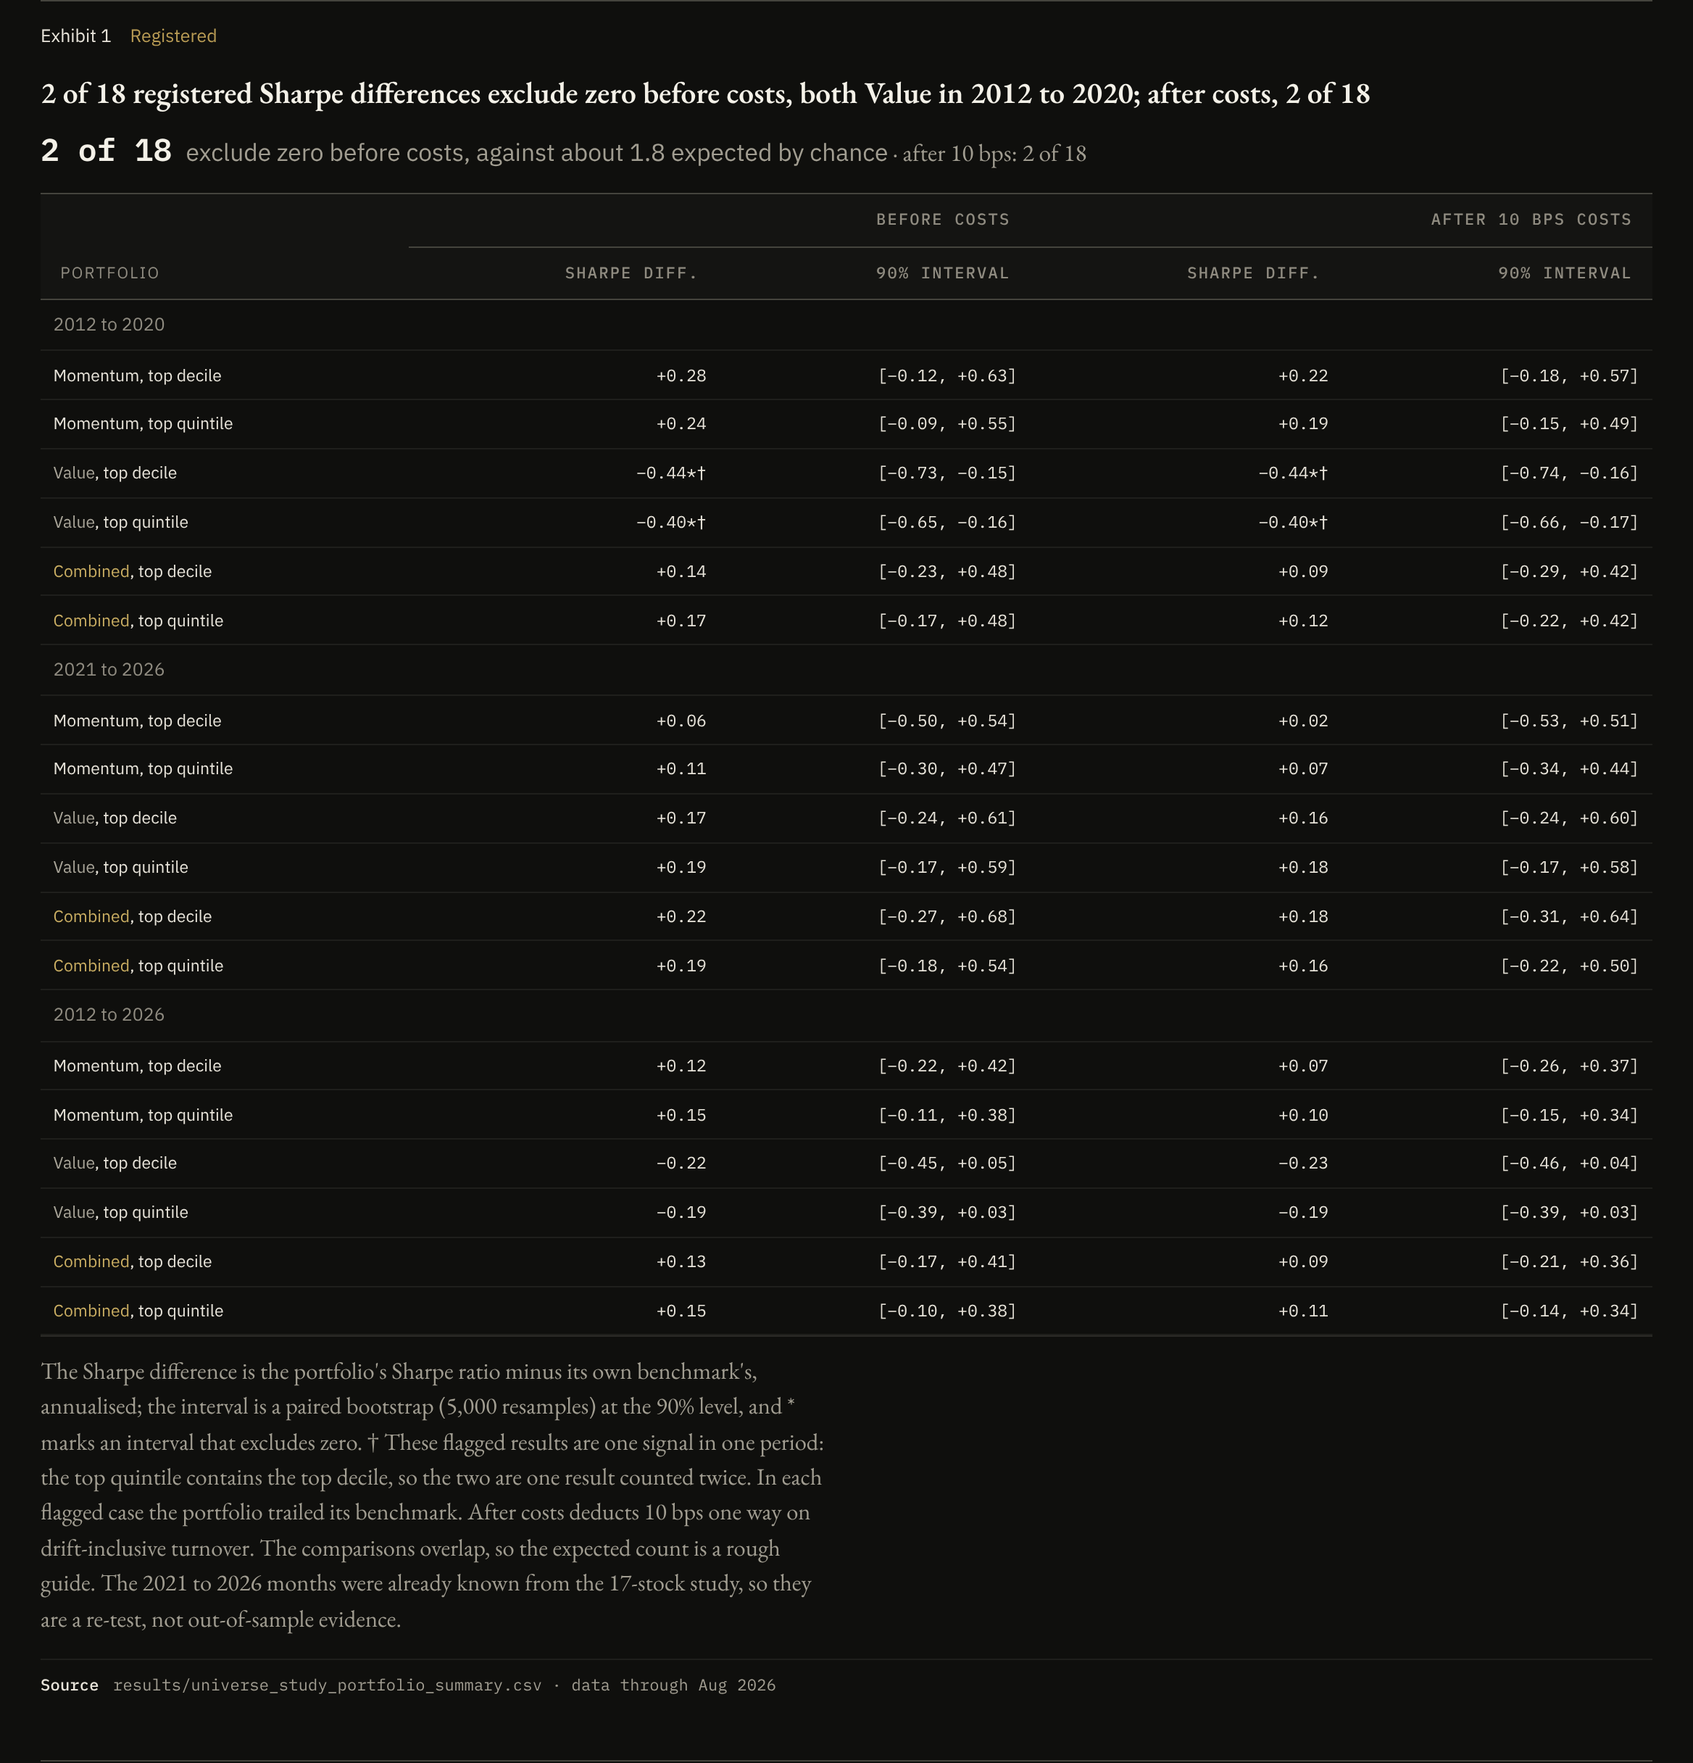
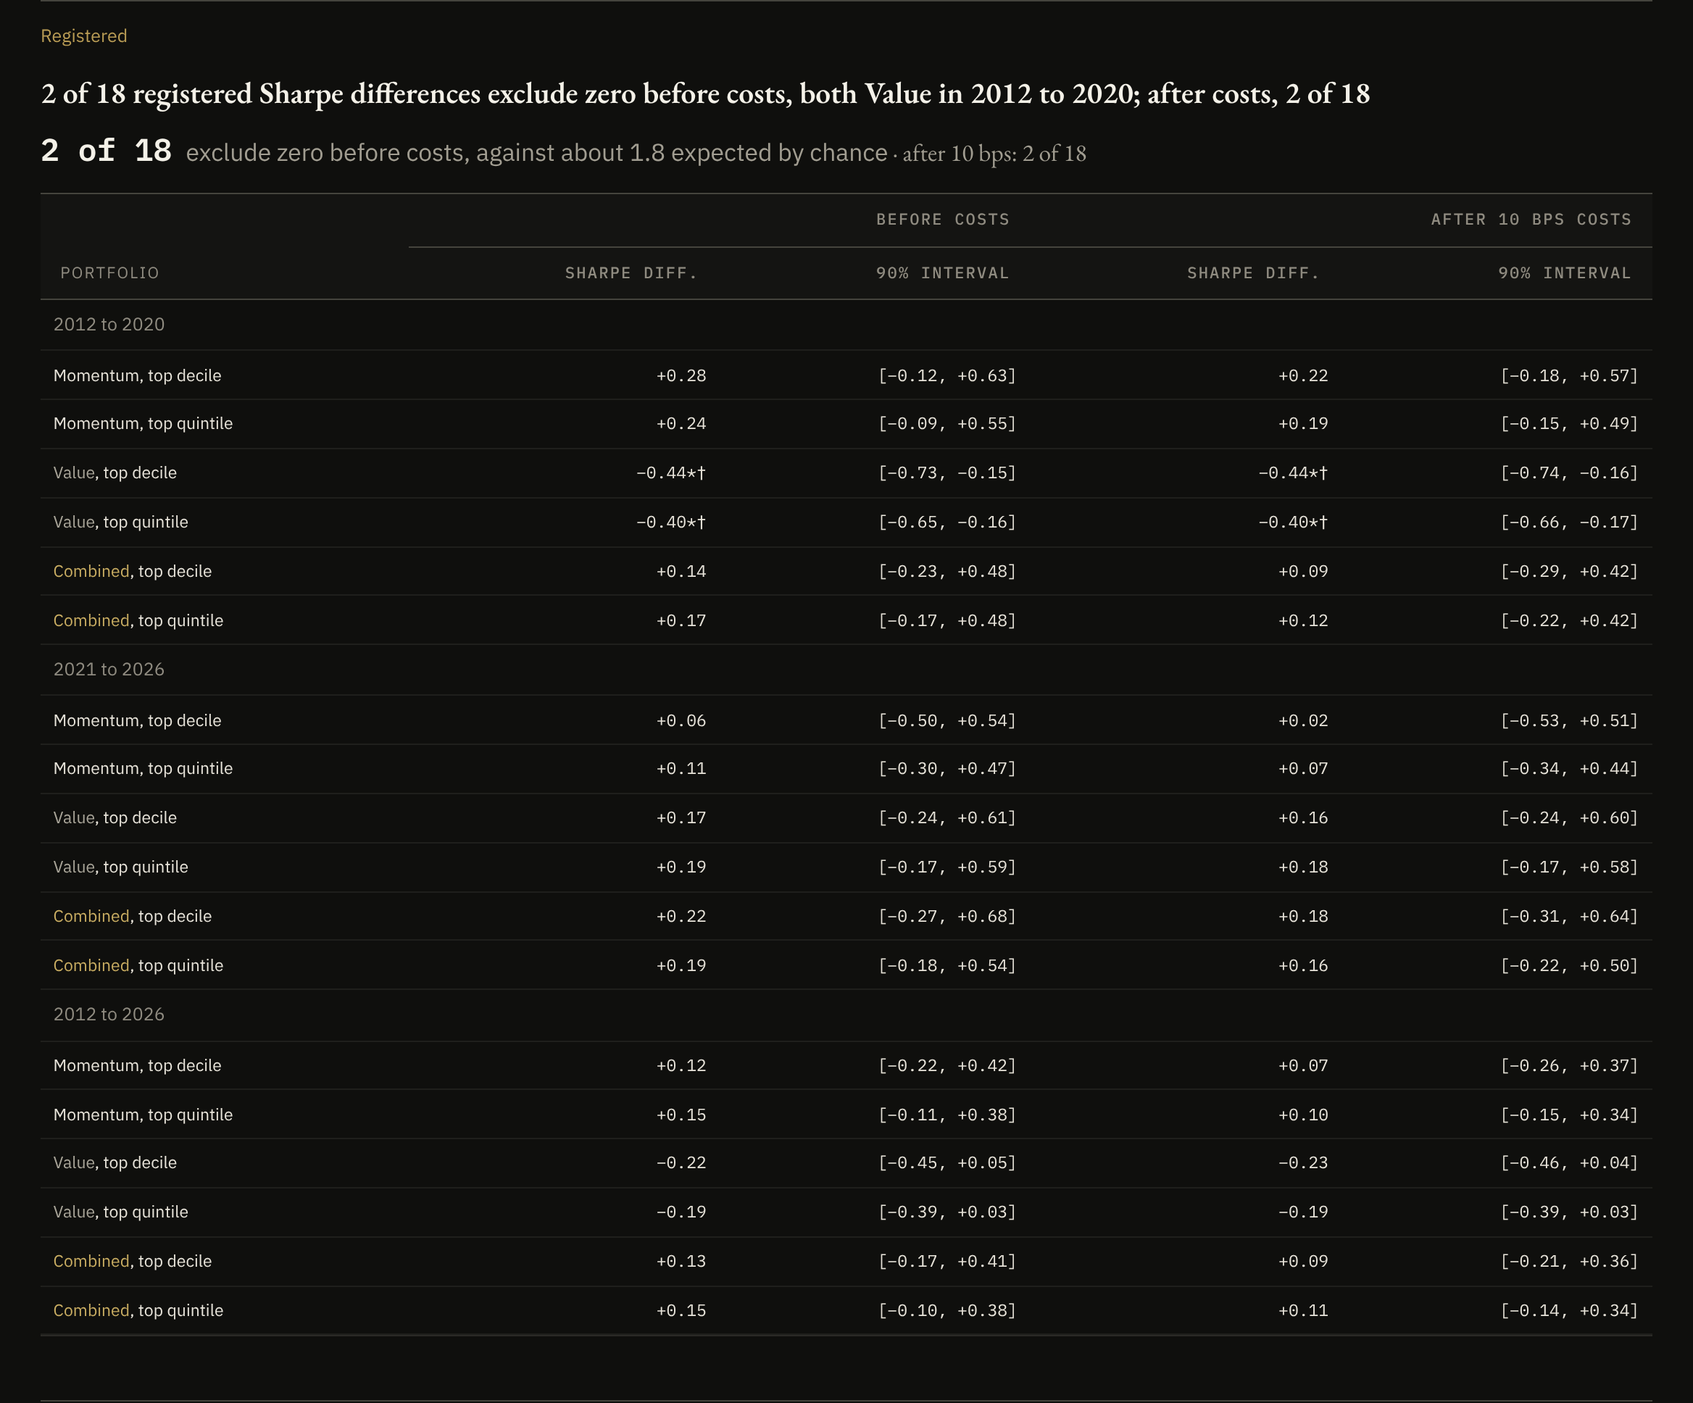
README: chart-only images with a text reading under each
Each of the five README images is now captured without the dashboard's exhibit
number, caption and source line, and has its own paragraph and Source line in
the README. Images are named by what they show, not numbered, so they cannot
clash with the dashboard's per-page numbering. The detectable-effect table is
no longer shown (its figures are in the text). Growth and drawdown now sits
beside the Sharpe text, and the plan log under Safeguards.

Claude-Session: https://claude.ai/code/session_011fgVJr68gJNNcQ627Q91RH

diff --git a/scripts/capture_readme_images.py b/scripts/capture_readme_images.py
@@ -18,12 +18,14 @@ OUT = Path(sys.argv[2]) if len(sys.argv) > 2 else ROOT / "docs" / "img"
 CHROME = sys.argv[3] if len(sys.argv) > 3 else None
 ONLY = set(sys.argv[4].split(",")) if len(sys.argv) > 4 else None  # optional: only these file names
 
-# (file name, page, URL hash, heading text that identifies the panel[, extra CSS for that image])
-# The first image shows the chart only: the page's caption paragraph and source line are hidden,
-# because the README explains the exhibit in its own text.
+# (file name, page, URL hash, heading text that identifies the panel)
+# Every image shows the exhibit only: title, subtitle, legend and chart or table. The dashboard's own
+# "Exhibit n" number, its caption paragraphs and its source line are hidden, because the README names
+# and explains each image in its own text and the dashboard numbers its panels per page. The status
+# word (Registered, Exploratory and so on) stays.
+HIDE = ".exh .exn, .src, .formula, .panel .caption"
 SHOTS = [
-    ("01-registered-tests.png", "index.html", "", "No registered signal test", "#f1Caption, .src { display: none !important; }"),
-    ("02-detectable-effect.png", "index.html", "", "What could the test have detected?"),
+    ("01-registered-tests.png", "index.html", "", "No registered signal test"),
     ("03-sharpe-differences.png", "portfolios.html", "", "#leadTitle"),
     ("04-growth-and-drawdown.png", "portfolios.html", "", "#growthTitle"),
     ("05-plan-log.png", "method.html", "#log", "#tlTitle"),
@@ -50,7 +52,7 @@ def main():
         ctx = browser.new_context(viewport={"width": 1280, "height": 900}, device_scale_factor=2)
         # The site defaults to dark; set it explicitly so a saved choice cannot change the output.
         ctx.add_init_script("try { localStorage.setItem('qer-theme', 'dark'); } catch (e) {}")
-        for name, html, frag, heading, *extra in SHOTS:
+        for name, html, frag, heading in SHOTS:
             if ONLY and name not in ONLY:
                 continue
             page = ctx.new_page()
@@ -61,8 +63,8 @@ def main():
             panel = panel_for(page, heading)
             panel.scroll_into_view_if_needed()
             page.wait_for_timeout(600)
-            # The README pictures leave out the formula boxes (the page keeps them) and add a margin of the page ground colour.
-            page.add_style_tag(content=".formula { display: none !important; }" + (extra[0] if extra else ""))
+            # The README pictures leave out the items listed in HIDE (the page keeps them) and add a margin of the page ground colour.
+            page.add_style_tag(content=HIDE + " { display: none !important; }")
             page.wait_for_timeout(300)
             page.evaluate("window.scrollTo(0, 0)")  # sticky bars then sit at the top of the page, not over the panel
             page.wait_for_timeout(300)

diff --git a/README.md b/README.md
@@ -12,9 +12,9 @@ The work uses Python (pandas, NumPy, SciPy, statsmodels, matplotlib), SQLite and
 
 As of 13 November 2026. Prices run to August 2026, and the pre-specification includes amendments up to Amendment 19.
 
-![Exhibit 1: the 33 registered signal tests, one row each, in four blocks. Each row shows the estimate and its 90% bootstrap interval against zero.](docs/img/01-registered-tests.png)
+![Estimates and 90% bootstrap intervals for the 33 registered signal tests, one row each, in four blocks, drawn against zero.](docs/img/01-registered-tests.png)
 
-Exhibit 1 plots the 33 registered signal tests. Each is an estimate with its 90% bootstrap interval. The tests cover Momentum, Value and Combined over 2012 to 2020, 2021 to 2026 and the full period. They are 9 rank IC tests, 9 quintile spreads, 9 Fama-MacBeth slopes for one signal and 6 slopes for Momentum and Value together. An interval that spans zero is read as no detectable effect. All 33 span zero, and so do the Newey-West and block-bootstrap versions of the same tests. The 2012 to 2020 test could detect a mean rank IC of about 0.055 for Momentum, 0.041 for Value and 0.052 for Combined at 80% power and a 10% two-sided level. An effect smaller than that would usually be missed, so the result is not evidence of no effect. If the tests were independent, about 3 would exclude zero by chance. They are not independent because the periods overlap and the signals share stocks, so 3 is a rough guide.
+Above, the 33 registered signal tests are plotted. Each is an estimate with its 90% bootstrap interval. The tests cover Momentum, Value and Combined over 2012 to 2020, 2021 to 2026 and the full period. They are 9 rank IC tests, 9 quintile spreads, 9 Fama-MacBeth slopes for one signal and 6 slopes for Momentum and Value together. An interval that spans zero is read as no detectable effect. All 33 span zero, and so do the Newey-West and block-bootstrap versions of the same tests. The 2012 to 2020 test could detect a mean rank IC of about 0.055 for Momentum, 0.041 for Value and 0.052 for Combined at 80% power and a 10% two-sided level. An effect smaller than that would usually be missed, so the result is not evidence of no effect. If the tests were independent, about 3 would exclude zero by chance. They are not independent because the periods overlap and the signals share stocks, so 3 is a rough guide.
 
 Source: `results/universe_study_signal_summary_momentum.csv`, `results/universe_study_signal_summary_value_combined.csv` and `results/universe_study_inference_robustness.csv`.
 
@@ -39,17 +39,29 @@ Source: `results/universe_study_signal_summary_momentum.csv`, `results/universe_
 
 Published factors often weaken when tested carefully. Hou, Xue and Zhang re-tested 452 published anomalies with methods that limit the weight of tiny stocks and found that 65% of them could not clear the usual significance hurdle, a t-statistic of 1.96 ([Review of Financial Studies, 2020](https://doi.org/10.1093/rfs/hhy131)). Large, liquid stocks such as the S&P 500 are expected to be a harder place to find a premium, because they are closely analysed and cheap to trade. That is a hypothesis, not something this study tests. A null here is a plausible and informative outcome. What matters is whether the test is reliable enough to trust that answer.
 
-![Exhibit 2: annualised return by signal group for Momentum, Value and Combined, with the top-minus-bottom spread and its 90% interval below each.](docs/img/06-return-by-group.png)
+![Annualised return by signal fifth for Momentum, Value and Combined in two periods, with the top-minus-bottom spread and its 90% interval below each.](docs/img/06-return-by-group.png)
 
-If a signal worked, the five groups would earn more in steps from left to right. Momentum's top group is the best in every period, but the groups below it are not ordered. For Value in 2012 to 2020 the most expensive fifth earned the most (18.2% a year, against 14.2% for the cheapest fifth), and no interval is reported for that gap.
+Return by group plots annualised return for each fifth of stocks ranked on the signal, with the top-minus-bottom spread and its 90% interval beneath. A signal that ranks returns would give bars that rise from left to right and a spread interval clear of zero. Momentum's top fifth earns the most in both periods (16.1% a year in 2012 to 2020, 15.8% in 2021 to 2026), yet its 2012 to 2020 spread is +0.07% a month with an interval of -0.74% to +0.87%. For Value in 2012 to 2020 the most expensive fifth earned 18.2% against 14.2% for the cheapest, a spread of -0.33% a month ([-0.95%, +0.27%]). All six intervals include zero, and with 108 and 68 months that is not evidence of no effect. Amendment 14 added this view after the results, so it is exploratory.
 
-![Exhibit 3: Sharpe difference against the benchmark for all 18 registered portfolio comparisons, before and after 10 bps costs.](docs/img/03-sharpe-differences.png)
+Source: `results/universe_study_quintile_returns.csv`, `results/universe_study_signal_summary_momentum.csv` and `results/universe_study_signal_summary_value_combined.csv`.
 
-The one interval that stands out is Value in 2012 to 2020, measured twice (top decile and top quintile). It is absent from the re-test and from the full period, and it points the wrong way for a value premium. The registered tests of the signal itself for the same period all include zero. In the three secondary sensitivities (winsorised price-to-book and two exclusion lists), 5 of 66 signal intervals exclude zero, against about 7 expected by chance if they were independent. All five are Value Fama-MacBeth slopes for 2012 to 2020, all with a negative slope whose interval stops just short of zero, and they share the same months and stocks.
+![Table of Sharpe ratio differences against the benchmark for 18 registered portfolio comparisons, before and after costs, with 90% intervals and the two Value 2012 to 2020 rows flagged.](docs/img/03-sharpe-differences.png)
 
-Costs of 10 bps one way change none of these readings. No explanation has been tested.
+Sharpe differences against each portfolio's own benchmark are listed for all 18 registered comparisons (three signals, top decile and top quintile, three periods), with a 90% paired bootstrap interval, before and after 10 bps one-way costs. Two intervals exclude zero, both Value in 2012 to 2020 (-0.44 for the top decile, -0.40 for the top quintile). The top quintile contains the top decile, so these are one result counted twice, and the sign is the reverse of what a value premium predicts. In the table an asterisk marks an interval that excludes zero and a dagger marks that doubled result. Neither the 2021 to 2026 re-test (+0.17 for the top decile) nor the full period (-0.22) repeats it, and both intervals include zero. Chance would flag about 1.8 if the tests were independent. The other 16 intervals are wide, so they are not evidence of no effect. Costs lower the point estimates by at most about 0.06 and leave every flag unchanged.
+
+Source: `results/universe_study_portfolio_summary.csv`.
+
+The registered tests of the signal itself for the same period all include zero. In the three secondary sensitivities (winsorised price-to-book and two exclusion lists), 5 of 66 signal intervals exclude zero, against about 7 expected by chance if they were independent. All five are Value Fama-MacBeth slopes for 2012 to 2020, all with a negative slope whose interval stops just short of zero, and they share the same months and stocks.
+
+No explanation has been tested.
 
 The 2021 to 2026 months were already known from an earlier 17-stock study, so they are a re-test and not out-of-sample evidence.
+
+![Growth of one dollar on a log scale for the Value top decile, its equal-weight benchmark and SPY from 2012 to 2026, with drawdown below showing a 49% trough in March 2020.](docs/img/04-growth-and-drawdown.png)
+
+Growth and drawdown for the Value top decile are shown against its benchmark and SPY before costs, with $1 on a log scale above and the fall from each series' previous high below, on monthly data. Over 2012 to 2020 Value returned 13.4% a year against 14.7% for the benchmark, with volatility of 25.4% against 15.0% and a maximum drawdown of 49.0% in March 2020 against 27.0%. In 2021 to 2026 it returned 19.6% against 12.8%, a Sharpe difference of +0.17 whose interval of -0.24 to +0.61 is compatible with no difference. The chart chains the two test periods and its levels are inflated by survivorship (see Limits), so Value's ending $8.59 against $6.81 for the benchmark cannot be read as outperformance.
+
+Source: `results/universe_study_portfolio_returns.csv` and `results/universe_study_portfolio_summary.csv`.
 
 ## Safeguards in the design
 
@@ -60,14 +72,18 @@ The 2021 to 2026 months were already known from an earlier 17-stock study, so th
 - **Errors found and corrected.** These are logged below: a one-month look-ahead in the Value signal, a split-adjustment bug that had flattered Value (its 17-stock Sharpe fell from 0.86 to about 0.61 once fixed), unit errors in SEC share counts that produced absurd price-to-book ratios, and a Momentum label that described an 11-month return as 12-1.
 - **Tested and reproducible.** More than 570 tests, many of them hand-worked cases, run on every push. Seeds are fixed, and the raw-data cache is checksummed in `results/data_manifest.csv`.
 
-## Limits
+![Timeline of 22 plan entries from October to November 2026, with the six written after every registered result existed shown as open squares.](docs/img/05-plan-log.png)
 
-![What the test could detect: the smallest mean rank IC found at 80% power is about 0.055 for Momentum, 0.041 for Value and 0.052 for Combined.](docs/img/02-detectable-effect.png)
+The plan log holds 22 dated entries: 18 numbered amendments and 4 design entries (there is no Amendment 4). Sixteen were written before any result they concern. The six from Amendment 14 onward, dated 7 to 13 November, came after every registered result existed and are labelled exploratory. Two further entries, from the 17-stock study plan, are drawn separately, so the timeline shows 24 squares against 22 counted entries.
+
+Source: `docs/LIMITATIONS_PLAN.md`.
+
+## Limits
 
 - **Survivorship.** Acquired and bankrupt companies mostly lack free price history. A delisting-aware source such as CRSP is the real fix. Which way the bias runs for each strategy is not tested here and need not be the same for all of them: acquired companies often earned a premium and bankrupt ones lost most of their value, and both are missing. Coverage is lowest from 2012 to 2015 (61% to 66% of index member-months usable for Value), so the early years of the 2012 to 2020 test rest on the weakest data.
 - **Data quality.** Wikipedia membership is approximate early on, and some book values rest on share counts that may carry unit errors the rule cannot detect. Filings that show negative book equity are dropped, so those companies keep an older positive book value for up to six months or leave the Value and Combined tests.
 - **Scope.** Large caps only. P/B is not sector-adjusted, Momentum is not volatility-scaled, there is no quality factor, costs are a flat 10 bps one way, with no market impact or capacity analysis. A four-factor Fama-French regression and sector-neutral variants were added after the results (Amendments 16 to 18), so they are exploratory and not registered. In the four-factor regression, none of the 18 regressions of the registered portfolios (six portfolios, three periods) has an alpha interval that excludes zero, before costs. Of the 24 same-names and sector-neutral variant regressions, 8 have an interval that excludes zero, all with a positive alpha (Value or Combined), against about 2.4 expected by chance if they were independent.
-- Value in 2012 to 2020 had higher volatility than its benchmark: 25.4% a year against 15.0% for the top decile, a beta of 1.55 to the benchmark and a maximum drawdown of 49.0% against 27.0% (before costs). Its return was 13.4% a year against 14.7%. In those years 53.2% of its name-months are in Financials and 25.9% have no sector label. Sectors are one current label per stock, not a historical one.
+- Value in 2012 to 2020 had higher volatility than its benchmark, with a beta of 1.55 to the benchmark (volatility, drawdown and returns are given under Growth and drawdown above). In those years 53.2% of its name-months are in Financials and 25.9% have no sector label. Sectors are one current label per stock, not a historical one.
 - Combined is mostly Momentum. Over 2012 to 2026 the monthly rank IC of Combined has a correlation of +0.98 with Momentum's. Of Combined's top-decile name-months, 85.8% are also in Momentum's top decile in the same month (73.5% the other way round; the two universes differ in size, with 353 to 499 usable names for Momentum and 295 to 426 for Combined). The overlap with Value is small: 6.9% of Combined's top-decile name-months are also in Value's, and 4.0% of Momentum's. The Combined results should therefore not be read as a separate test from Momentum's. The monthly rank ICs of Momentum and Value are correlated at -0.53.
 - **Sharpe convention.** The Sharpe ratio is the annualised return minus the compounded risk-free return, divided by annualised volatility. The arithmetic version, mean monthly excess return over volatility, gives differences that are mostly 5% to 25% smaller across the 18 gross portfolio comparisons and changes no sign. It was recomputed from the saved monthly returns after the results and is not saved in a result file or part of the registered tests. Of the 18 differences, 17 are smaller (15 of them by 5% to 25%) and one is about 19% larger (Momentum top decile, 2021 to 2026).
 - **Power.** With 108 months the test detects a mean rank IC of about 0.055 (80% power), so a smaller premium cannot be ruled out.
@@ -84,10 +100,6 @@ The 2021 to 2026 months were already known from an earlier 17-stock study, so th
 | Method | What was done, in what order? |
 
 The pages are dark by default, with a light theme switch in the header; the choice is saved in the browser.
-
-![Growth of $1 on a log scale for the Value top decile, its benchmark and SPY, with drawdown below.](docs/img/04-growth-and-drawdown.png)
-
-![The plan log: dated entries, with those written after every registered result existed marked.](docs/img/05-plan-log.png)
 
 The images in `docs/img/` are captured from the dashboard pages with `python scripts/capture_readme_images.py` (needs Playwright), so they match the live site.
 
